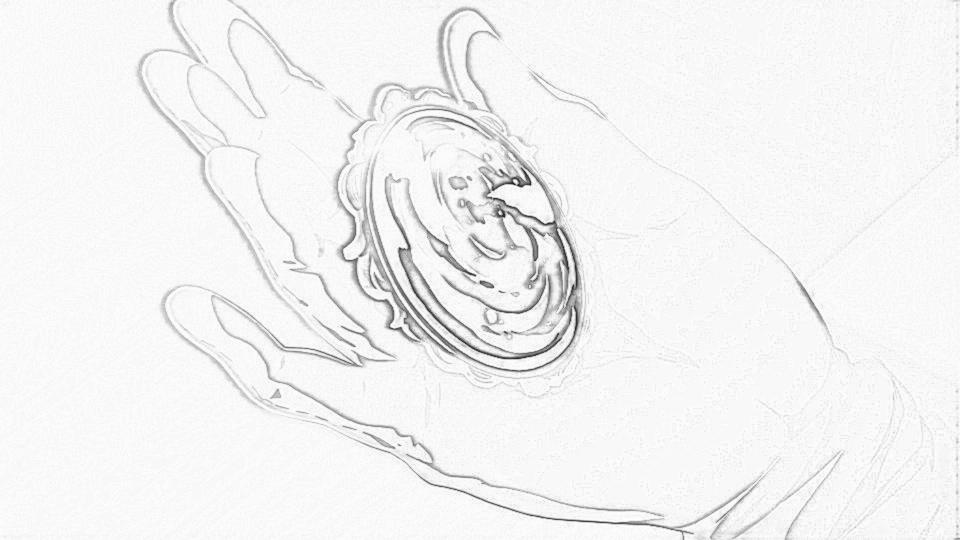
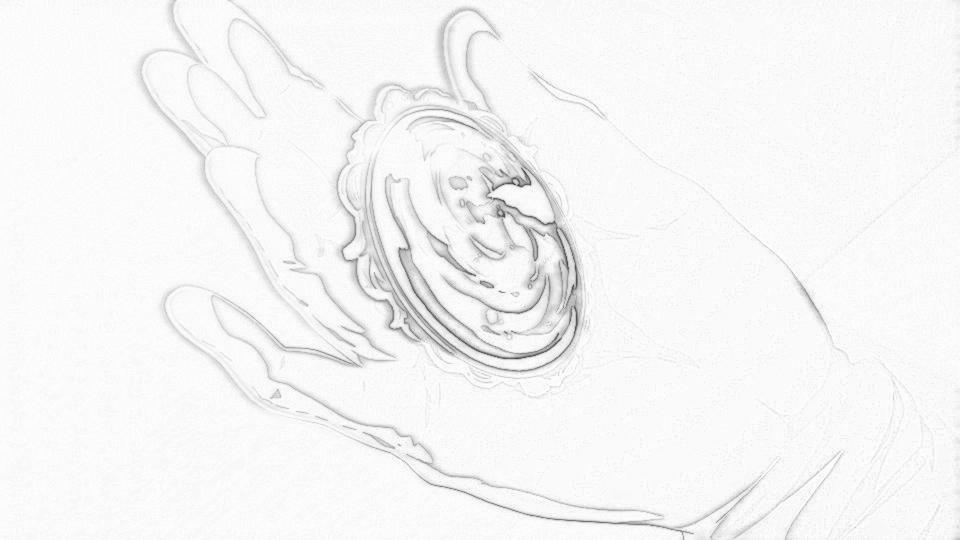
adaptive darken

diff --git a/utils.py b/utils.py
@@ -194,9 +194,10 @@ class ImageOps:
 
     def adaptive_darken(
         img: np.ndarray,
-        gamma: float = 3.1,  # gamma > 1 will darken the image
+        gamma: float = 3.5,  # gamma > 1 will darken the image
         line_threshold:float = 240,
-        blackenough_line_threshold:float = 210
+        blackenough_line_threshold:float = 210,
+        gamma_light:float = 1.5
     ) -> np.ndarray:
         """Automatically darken the image if the lines are too light.
         Parameters:
@@ -205,9 +206,29 @@ class ImageOps:
             line_threshold (float) -- the threshold for determining if the lines are too light. If the average pixel value of the LINES is above this threshold, img will be darkened.
         """
         lines_mask = img <line_threshold
-        if np.mean(img[lines_mask]) < blackenough_line_threshold:
+        avg = np.mean(img[lines_mask])
+        if avg < blackenough_line_threshold: 
             return img  # lines already dark enough
+        
+        # 动态 gamma：平均灰度从 blackenough(210) 到 line_threshold(240) 线性映射到 gamma 1.0 ~ 3.1
+        t = (avg - blackenough_line_threshold) / (line_threshold - blackenough_line_threshold)
+        gamma = 1.0 + t * (gamma - 1.0)  # avg越高，gamma越大
+        # print(gamma) # debug
         
         lut = (np.arange(256) / 255.0) ** gamma * 255
         result = cv2.LUT(img, lut.astype(np.uint8))
+        
+        # lut = np.arange(256, dtype=np.float32)
+
+        # for i in range(int(line_threshold)):
+        #     # t=0 时像素最深（i=0），gamma=1.0 不动
+        #     # t=1 时像素最浅（i=light_thr），gamma=gamma_light 最大加深
+        #     t = i / line_threshold
+        #     g = 1.0 + t * (gamma_light - 1.0)
+        #     lut[i] = (i / 255.0) ** g * 255
+
+        # lut[int(line_threshold):] = lut[int(line_threshold):]  # 白背景不动
+        # lut = np.clip(lut, 0, 255).astype(np.uint8)
+        # result = cv2.LUT(img, lut)
+        
         return result

diff --git a/run.py b/run.py
@@ -15,6 +15,11 @@ from data import get_image_list, read_img_path, tensor_to_img, save_image
 from model import create_model
 
 
+import numpy as np
+import cv2
+
+
+
 def prepare_device(gpu_ids: list):
     # gpu_list = ','.join(str(x) for x in gpu_ids)
     # os.environ['CUDA_VISIBLE_DEVICES'] = gpu_list
@@ -69,6 +74,12 @@ def main():
         with torch.no_grad():
             aus_tensor = model(img_np.to(device))
         img_style_np = tensor_to_img(aus_tensor) # (H, W, C) uint8
+
+        # debug
+        ksize=(5,5)
+        sigma=1.5
+        img_style_np = cv2.GaussianBlur(img_style_np.astype(np.float32), ksize, sigma).clip(0,255).astype(img_style_np.dtype)
+        
         
         # 3. gen lineart layer 
         grey_img = ImageIO.to_gray(pil_img)
@@ -81,7 +92,7 @@ def main():
         # 4.sketch fusion 
         blended = ImageOps.blend_lines_np(img_structure_np, img_style_np, alpha=lineart_cfg.BLEND_ALPHA, beta=lineart_cfg.BLEND_BETA, mask_blur=lineart_cfg.MASK_BLUR)  # blend_alpha means the weight for structure line, blend_beta means the weight for style line
         fin_np = ImageOps.adaptive_darken(blended)  # 自动判断是否后处理增强，针对线条较淡的情况        
-
+        # fin_np = blended  # debug
         save_image(fin_np, aus_path, aus_resize)
 
 
